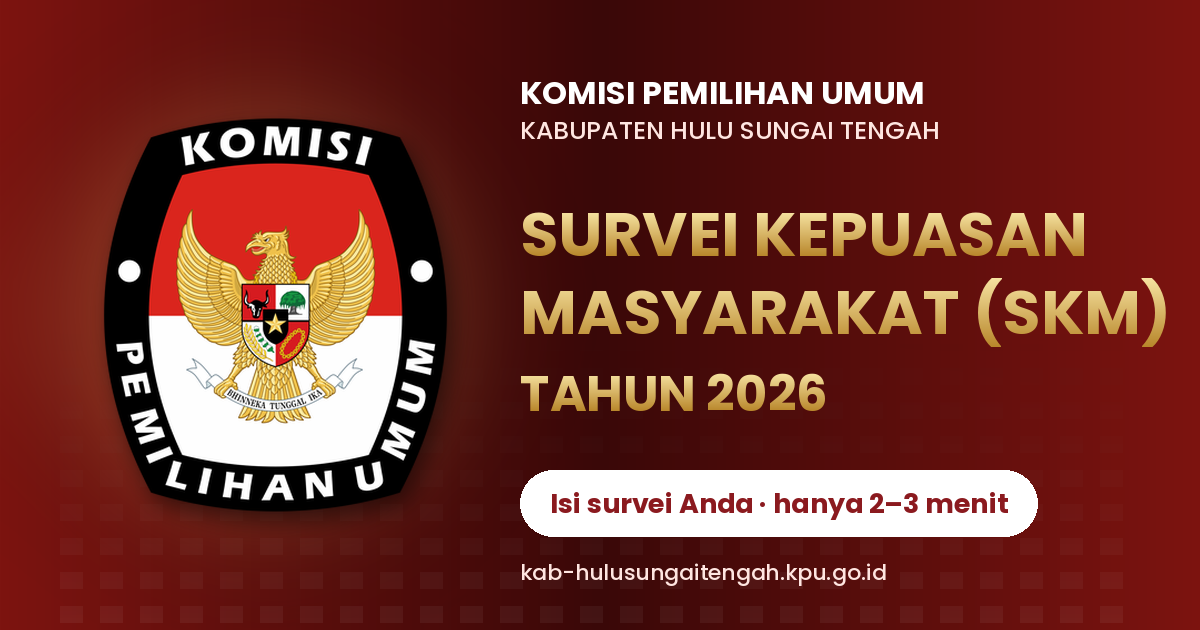
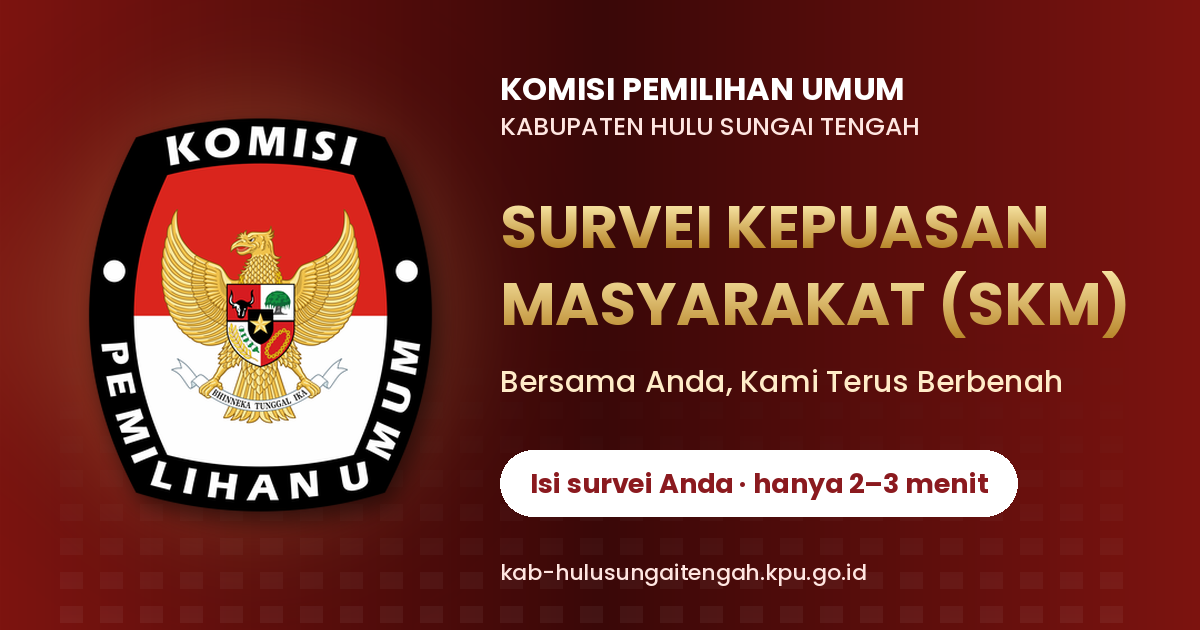
Add files via upload

diff --git a/index.html b/index.html
@@ -3,7 +3,7 @@
 <head>
 <meta charset="utf-8">
 <meta name="viewport" content="width=device-width, initial-scale=1, viewport-fit=cover">
-<title>Survei Kepuasan Masyarakat – KPU Kabupaten Hulu Sungai Tengah 2026</title>
+<title>Survei Kepuasan Masyarakat – KPU Kabupaten Hulu Sungai Tengah</title>
 <meta name="description" content="Bantu kami berbenah: nilai layanan KPU Kabupaten Hulu Sungai Tengah. Hanya 2–3 menit.">
 <meta name="theme-color" content="#7d1410">
 <link rel="icon" type="image/png" href="favicon.png">
@@ -12,15 +12,15 @@
 <meta property="og:type" content="website">
 <meta property="og:site_name" content="KPU Kabupaten Hulu Sungai Tengah">
 <meta property="og:locale" content="id_ID">
-<meta property="og:title" content="Survei Kepuasan Masyarakat 2026 | KPU Hulu Sungai Tengah">
+<meta property="og:title" content="Survei Kepuasan Masyarakat (SKM) | KPU Hulu Sungai Tengah">
 <meta property="og:description" content="Bantu kami berbenah: nilai layanan KPU Kabupaten Hulu Sungai Tengah. Hanya 2–3 menit.">
 <meta property="og:image" content="https://kpuhstrendatin.github.io/skmtahun2026/og-image.png">
 <meta property="og:image:type" content="image/png">
 <meta property="og:image:width" content="1200">
 <meta property="og:image:height" content="630">
-<meta property="og:image:alt" content="Logo KPU dan tulisan Survei Kepuasan Masyarakat (SKM) Tahun 2026 KPU Kabupaten Hulu Sungai Tengah">
+<meta property="og:image:alt" content="Logo KPU dan tulisan Survei Kepuasan Masyarakat (SKM) KPU Kabupaten Hulu Sungai Tengah">
 <meta name="twitter:card" content="summary_large_image">
-<meta name="twitter:title" content="Survei Kepuasan Masyarakat 2026 | KPU Hulu Sungai Tengah">
+<meta name="twitter:title" content="Survei Kepuasan Masyarakat (SKM) | KPU Hulu Sungai Tengah">
 <meta name="twitter:description" content="Bantu kami berbenah: nilai layanan KPU Kabupaten Hulu Sungai Tengah. Hanya 2–3 menit.">
 <meta name="twitter:image" content="https://kpuhstrendatin.github.io/skmtahun2026/og-image.png">
 <style>
@@ -121,7 +121,7 @@ main{position:relative;z-index:2}
   <div class="brand"><img class="logo" src="logo-kpu.png" alt="Logo KPU" onerror="this.style.display='none'">
     <div class="bt"><b>KOMISI PEMILIHAN UMUM</b><span>KABUPATEN HULU SUNGAI TENGAH</span></div></div>
   <h1>SURVEI KEPUASAN MASYARAKAT (SKM)</h1>
-  <h2 id="perLbl">TAHUN 2026</h2>
+  <h2 id="perLbl"></h2>
   <div class="contact">
     <span><svg viewBox="0 0 24 24" fill="none" stroke="currentColor" stroke-width="1.8"><circle cx="12" cy="12" r="9"/><path d="M3 12h18M12 3c3 3 3 15 0 18M12 3c-3 3-3 15 0 18"/></svg>kab-hulusungaitengah.kpu.go.id</span>
     <span><svg viewBox="0 0 24 24" fill="none" stroke="currentColor" stroke-width="1.8"><rect x="3" y="3" width="18" height="18" rx="5"/><circle cx="12" cy="12" r="4"/><circle cx="17.2" cy="6.8" r="1" fill="currentColor"/></svg>kpuhulusungaitengah</span>
@@ -134,6 +134,7 @@ main{position:relative;z-index:2}
       <h2>Pilih Periode Survei</h2>
       <p class="sub">Silakan pilih periode layanan yang ingin Anda nilai. Hanya periode yang sedang dibuka yang dapat dipilih.</p>
       <div class="pgrid" id="pgrid"></div>
+      <p class="sub" id="pgInfo" style="display:none;margin-top:10px">Saat ini belum ada periode survei yang dibuka. Silakan kembali lagi saat periode berikutnya dimulai.</p>
       <div class="share"><b>Ajak orang lain ikut menilai</b>
         <div class="row" style="margin-top:8px"><button type="button" class="wa shWa">Bagikan ke WhatsApp</button><button type="button" class="s shCopy">Salin tautan</button><button type="button" class="s shNative hide">Bagikan…</button></div></div>
     </div>
@@ -190,19 +191,22 @@ main{position:relative;z-index:2}
   </section>
   </div>
 </main>
-<footer>© 2026 KPU Kabupaten Hulu Sungai Tengah · Survei Kepuasan Masyarakat</footer>
+<footer>© <span id="yr"></span> KPU Kabupaten Hulu Sungai Tengah · Survei Kepuasan Masyarakat</footer>
 
 <script>
 (function(){
 // Isi dengan URL Web App Google Apps Script (lihat petunjuk). Jika kosong, data TIDAK dikirim (mode uji).
 // ===== PENGATURAN PERIODE =====
-// Ubah aktif:true untuk membuka periode, aktif:false untuk menutupnya.
+// Buka/tutup periode OTOMATIS mengikuti tanggal 'rentang' (mulai s.d. akhir periode, ditambah GRACE_HARI).
+// Pengecualian (opsional), tambahkan di baris periode: paksa:true = selalu dibuka, paksa:false = selalu ditutup.
 // layanan:[...] = nomor layanan yang bisa dipilih pada periode itu (0=PPID, 1=Pendidikan Pemilih, 2=Pengaduan Masyarakat, 3=Kerjasama, 4=Pemutakhiran Data Pemilih, 5=Verifikasi & Pemutakhiran Data Partai Politik)
-var PERIODE=[
- {id:'tw1',nama:'Triwulan I',ket:'Januari – Maret 2026',tgl:'1 Januari – 31 Maret 2026',rentang:['2026-01-01','2026-03-31'],aktif:false,layanan:[0,1,2,3]},
- {id:'tw2',nama:'Triwulan II (Semester I)',ket:'April – Juni 2026',tgl:'1 April – 30 Juni 2026',rentang:['2026-04-01','2026-06-30'],aktif:false,layanan:[0,1,2,3,4,5]},
- {id:'tw3',nama:'Triwulan III',ket:'Juli – September 2026',tgl:'1 Juli – 30 September 2026',rentang:['2026-07-01','2026-09-30'],aktif:false,layanan:[0,1,2,3]},
- {id:'tw4',nama:'Triwulan IV (Semester II)',ket:'Oktober – Desember 2026',tgl:'1 Oktober – 31 Desember 2026',rentang:['2026-10-01','2026-12-31'],aktif:true,layanan:[0,1,2,3,4,5]}
+var GRACE_HARI=0; // jumlah hari tambahan setelah periode berakhir yang masih boleh mengisi
+var TAHUN_PAKSA=null; // kosong = otomatis mengikuti tahun berjalan; isi angka (mis. 2027) hanya jika perlu memaksa tahun tertentu
+var PERIODE=[ // mulai/akhir = bulan-tanggal; tahunnya otomatis
+ {id:'tw1',nama:'Triwulan I',mulai:'01-01',akhir:'03-31',layanan:[0,1,2,3]},
+ {id:'tw2',nama:'Triwulan II (Semester I)',mulai:'04-01',akhir:'06-30',layanan:[0,1,2,3,4,5]},
+ {id:'tw3',nama:'Triwulan III',mulai:'07-01',akhir:'09-30',layanan:[0,1,2,3]},
+ {id:'tw4',nama:'Triwulan IV (Semester II)',mulai:'10-01',akhir:'12-31',layanan:[0,1,2,3,4,5]}
 ];
 // ===== AKHIR PENGATURAN PERIODE =====
 var cur=null,doneL=[],t0=Date.now();
@@ -470,7 +474,7 @@ f.addEventListener('submit',function(e){
   var pay={waktu_kirim:new Date().toISOString(),nama:$('nama').value.trim(),tanggal_layanan:t,jenis_layanan:val('layanan'),jenis_kelamin:val('jk'),pendidikan:$('pend').value,usia:$('usia').value,
     pekerjaan:val('kerja')==='Lainnya'?'Lainnya: '+$('kerjaLain').value.trim():val('kerja'),disabilitas:val('dis')};
   U.forEach(function(u,n){pay['U'+(n+1)+' '+u[0].replace(/&amp;/g,'&')]=+val('u'+n)});
-  pay.rata_rata=Math.round(ikm/25*100)/100;pay.nilai_ikm=ikm;pay.mutu=mutu(ikm);pay.saran=$('saran').value.trim();pay.periode=cur.nama+' Tahun 2026';pay.jenis_disabilitas=disSel().join('; ');pay.id_kiriman=uid();pay.durasi_detik=Math.round((Date.now()-t0)/1000);pay.persetujuan='Ya';pay.hp=$('hp').value;
+  pay.rata_rata=Math.round(ikm/25*100)/100;pay.nilai_ikm=ikm;pay.mutu=mutu(ikm);pay.saran=$('saran').value.trim();pay.periode=cur.nama+' Tahun '+cur.tahun;pay.jenis_disabilitas=disSel().join('; ');pay.id_kiriman=uid();pay.durasi_detik=Math.round((Date.now()-t0)/1000);pay.persetujuan='Ya';pay.hp=$('hp').value;
   var btn=f.querySelector('button[type=submit]'),old=btn.textContent;btn.disabled=true;btn.textContent='Mengirim…';
   function show(note){
     if(doneL.indexOf(pay.jenis_layanan)<0)doneL.push(pay.jenis_layanan);
@@ -550,8 +554,8 @@ function today(){var d=new Date();return d.getFullYear()+'-'+('0'+(d.getMonth()+
 function setTglMax(){if(!cur)return;var t=today();$('tgl').max=t<cur.rentang[1]?t:cur.rentang[1]}
 $('tgl').addEventListener('focus',setTglMax);
 function openP(p){
-  cur=p;t0=Date.now();sel('layanan',(p.layanan||LAYANAN.map(function(_,i){return i})).map(function(i){return LAYANAN[i]}));$('perLbl').textContent=p.nama.toUpperCase()+' TAHUN 2026';
-  document.title='Survei Kepuasan Masyarakat – '+p.nama+' Tahun 2026 – KPU Kab. Hulu Sungai Tengah';
+  cur=p;t0=Date.now();sel('layanan',(p.layanan||LAYANAN.map(function(_,i){return i})).map(function(i){return LAYANAN[i]}));$('perLbl').textContent=p.nama.toUpperCase()+' TAHUN '+p.tahun;
+  document.title='Survei Kepuasan Masyarakat – '+p.nama+' Tahun '+p.tahun+' – KPU Kab. Hulu Sungai Tengah';
   $('tgl').min=p.rentang[0];setTglMax();
   $('tglHint').textContent='Periode layanan '+p.nama+': '+p.tgl+'.';
   $('tglMsg').textContent='Pilih tanggal dalam periode '+p.tgl+'. Tanggal yang belum terjadi tidak dapat dipilih.';
@@ -561,30 +565,56 @@ function openP(p){
   progress();showView('form');
 }
 function backPick(){
-  cur=null;$('perLbl').textContent='TAHUN 2026';document.title='Survei Kepuasan Masyarakat – KPU Kabupaten Hulu Sungai Tengah 2026';
+  cur=null;$('perLbl').textContent='TAHUN '+tahunIni();document.title='Survei Kepuasan Masyarakat – KPU Kabupaten Hulu Sungai Tengah';
   try{history.replaceState(null,'',location.pathname)}catch(e){}
   renderPick();showView('pick');
 }
-function renderPick(){
-  $('pgrid').innerHTML=PERIODE.map(function(p,i){
-    return '<button type="button" class="pc'+(p.aktif?'':' off')+'" data-i="'+i+'"'+(p.aktif?'':' disabled aria-disabled="true"')+'><b>'+p.nama+'</b><small>'+p.ket+'</small><em>'+(p.aktif?'Dibuka – klik untuk mengisi':'Belum dibuka / ditutup')+'</em></button>'}).join('');
+var BLN=['Januari','Februari','Maret','April','Mei','Juni','Juli','Agustus','September','Oktober','November','Desember'];
+function fmtTgl(t){var a=t.split('-');return (+a[2])+' '+BLN[+a[1]-1]+' '+a[0]}
+function addDays(t,n){var a=t.split('-'),d=new Date(+a[0],+a[1]-1,+a[2]+n);return d.getFullYear()+'-'+('0'+(d.getMonth()+1)).slice(-2)+'-'+('0'+d.getDate()).slice(-2)}
+function statusP(p){
+  if(p.paksa===true)return 'buka';if(p.paksa===false)return 'tutup';
+  var t=today();if(t<p.rentang[0])return 'belum';if(t>addDays(p.rentang[1],GRACE_HARI))return 'tutup';return 'buka';
 }
-$('pgrid').addEventListener('click',function(e){var b=e.target.closest('.pc');if(b&&!b.disabled)openP(PERIODE[+b.getAttribute('data-i')])});
+function tahunIni(){return TAHUN_PAKSA||+today().slice(0,4)}
+function bangun(Y){return PERIODE.map(function(b){
+  var r=[Y+'-'+b.mulai,Y+'-'+b.akhir];
+  return {id:b.id,idDasar:b.id,tahun:Y,nama:b.nama,rentang:r,layanan:b.layanan,paksa:b.paksa,
+    ket:BLN[+b.mulai.slice(0,2)-1]+' – '+BLN[+b.akhir.slice(0,2)-1]+' '+Y,
+    tgl:fmtTgl(r[0]).replace(' '+Y,'')+' – '+fmtTgl(r[1])}})}
+var DAFTAR=[];
+function hitungDaftar(){ // 4 triwulan tahun berjalan; periode tahun lalu ikut tampil selama masih dalam masa GRACE_HARI
+  var Y=tahunIni(),L=bangun(Y);
+  if(!TAHUN_PAKSA)bangun(Y-1).forEach(function(p){if(p.paksa!==false&&statusP(p)==='buka'&&today()>p.rentang[1]){p.id=p.idDasar+'-'+p.tahun;L.unshift(p)}});
+  return L;
+}
+function renderPick(){
+  DAFTAR=hitungDaftar();
+  var adaBuka=false;
+  $('pgrid').innerHTML=DAFTAR.map(function(p,i){
+    var st=statusP(p),on=st==='buka';if(on)adaBuka=true;
+    var lbl=on?'Dibuka · klik untuk mengisi':st==='belum'?'Belum dibuka · dibuka '+fmtTgl(p.rentang[0]):'Sudah ditutup';
+    var sub=on&&p.paksa!==true?'Dibuka sampai '+fmtTgl(addDays(p.rentang[1],GRACE_HARI)):p.ket;
+    return '<button type="button" class="pc'+(on?'':' off')+'" data-i="'+i+'"'+(on?'':' disabled aria-disabled="true"')+'><b>'+p.nama+'</b><small>'+sub+'</small><em>'+lbl+'</em></button>'}).join('');
+  $('pgInfo').style.display=adaBuka?'none':'block';
+}
+$('pgrid').addEventListener('click',function(e){var b=e.target.closest('.pc');if(b&&!b.disabled)openP(DAFTAR[+b.getAttribute('data-i')])});
 $('backTop').addEventListener('click',backPick);$('backRes').addEventListener('click',backPick);
 renderPick();
 $('namaL').innerHTML=NAMA_WAJIB?'Nama Lengkap <span class="req">*</span>':'Nama <small style="font-weight:400;color:var(--mut)">(opsional — boleh dikosongkan atau diisi inisial)</small>';
 flush();
 // ===== Bagikan tautan =====
-var SHARE_V='2'; // naikkan angka ini (3, 4, ...) setiap gambar/judul pratinjau diganti agar WhatsApp memuat ulang
+var SHARE_V='3'; // naikkan angka ini (3, 4, ...) setiap gambar/judul pratinjau diganti agar WhatsApp memuat ulang
 function shLink(){var u=location.origin+location.pathname+'?v='+SHARE_V;return u+(cur?'#'+cur.id:'')}
-function shText(){return 'Mari nilai layanan KPU Kabupaten Hulu Sungai Tengah — Survei Kepuasan Masyarakat 2026. Hanya 2–3 menit: '+shLink()}
+function shText(){return 'Mari nilai layanan KPU Kabupaten Hulu Sungai Tengah — Survei Kepuasan Masyarakat '+tahunIni()+'. Hanya 2–3 menit: '+shLink()}
 document.querySelectorAll('.shWa').forEach(function(b){b.addEventListener('click',function(){window.open('https://wa.me/?text='+encodeURIComponent(shText()),'_blank','noopener')})});
 document.querySelectorAll('.shCopy').forEach(function(b){b.addEventListener('click',function(){
   var t=shLink(),done=function(){var o=b.textContent;b.textContent='Tersalin ✓';setTimeout(function(){b.textContent=o},1800)};
   if(navigator.clipboard&&navigator.clipboard.writeText)navigator.clipboard.writeText(t).then(done,function(){prompt('Salin tautan ini:',t)});else prompt('Salin tautan ini:',t);
 })});
-if(navigator.share)document.querySelectorAll('.shNative').forEach(function(b){b.classList.remove('hide');b.addEventListener('click',function(){navigator.share({title:'Survei Kepuasan Masyarakat 2026',text:'Mari nilai layanan KPU Kabupaten Hulu Sungai Tengah — Survei Kepuasan Masyarakat 2026. Hanya 2–3 menit.',url:shLink()}).catch(function(){})})});
-var h=location.hash.slice(1);PERIODE.forEach(function(p){if(p.id===h&&p.aktif)openP(p)});
+if(navigator.share)document.querySelectorAll('.shNative').forEach(function(b){b.classList.remove('hide');b.addEventListener('click',function(){navigator.share({title:'Survei Kepuasan Masyarakat '+tahunIni(),text:'Mari nilai layanan KPU Kabupaten Hulu Sungai Tengah — Survei Kepuasan Masyarakat '+tahunIni()+'. Hanya 2–3 menit.',url:shLink()}).catch(function(){})})});
+$('yr').textContent=tahunIni();if(!cur)$('perLbl').textContent='TAHUN '+tahunIni();
+var h=location.hash.slice(1);DAFTAR.some(function(p){if((p.id===h||p.idDasar===h)&&statusP(p)==='buka'){openP(p);return true}});
 })();
 </script>
 </body>
